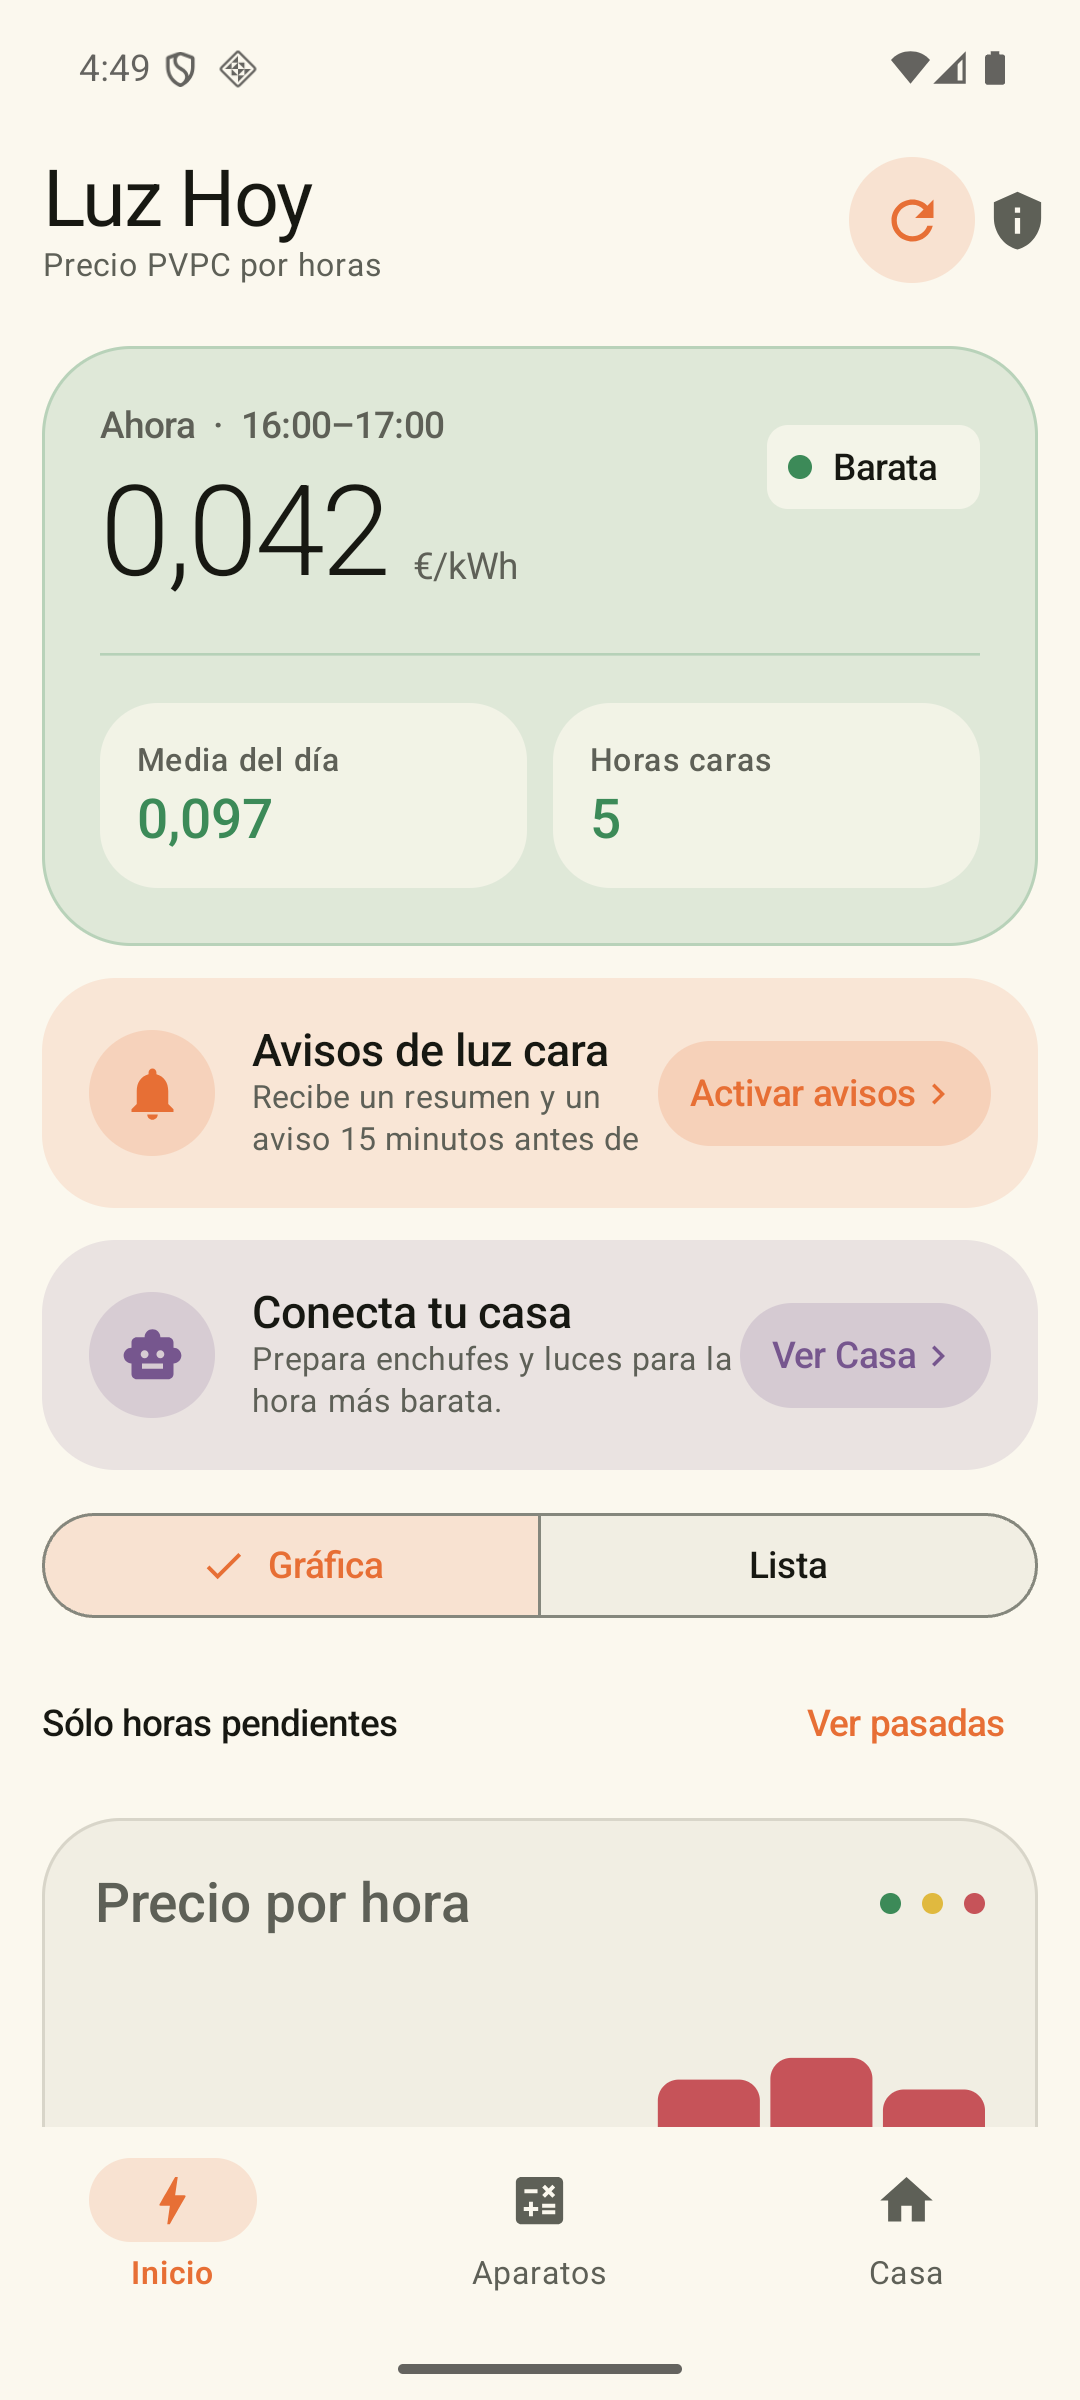
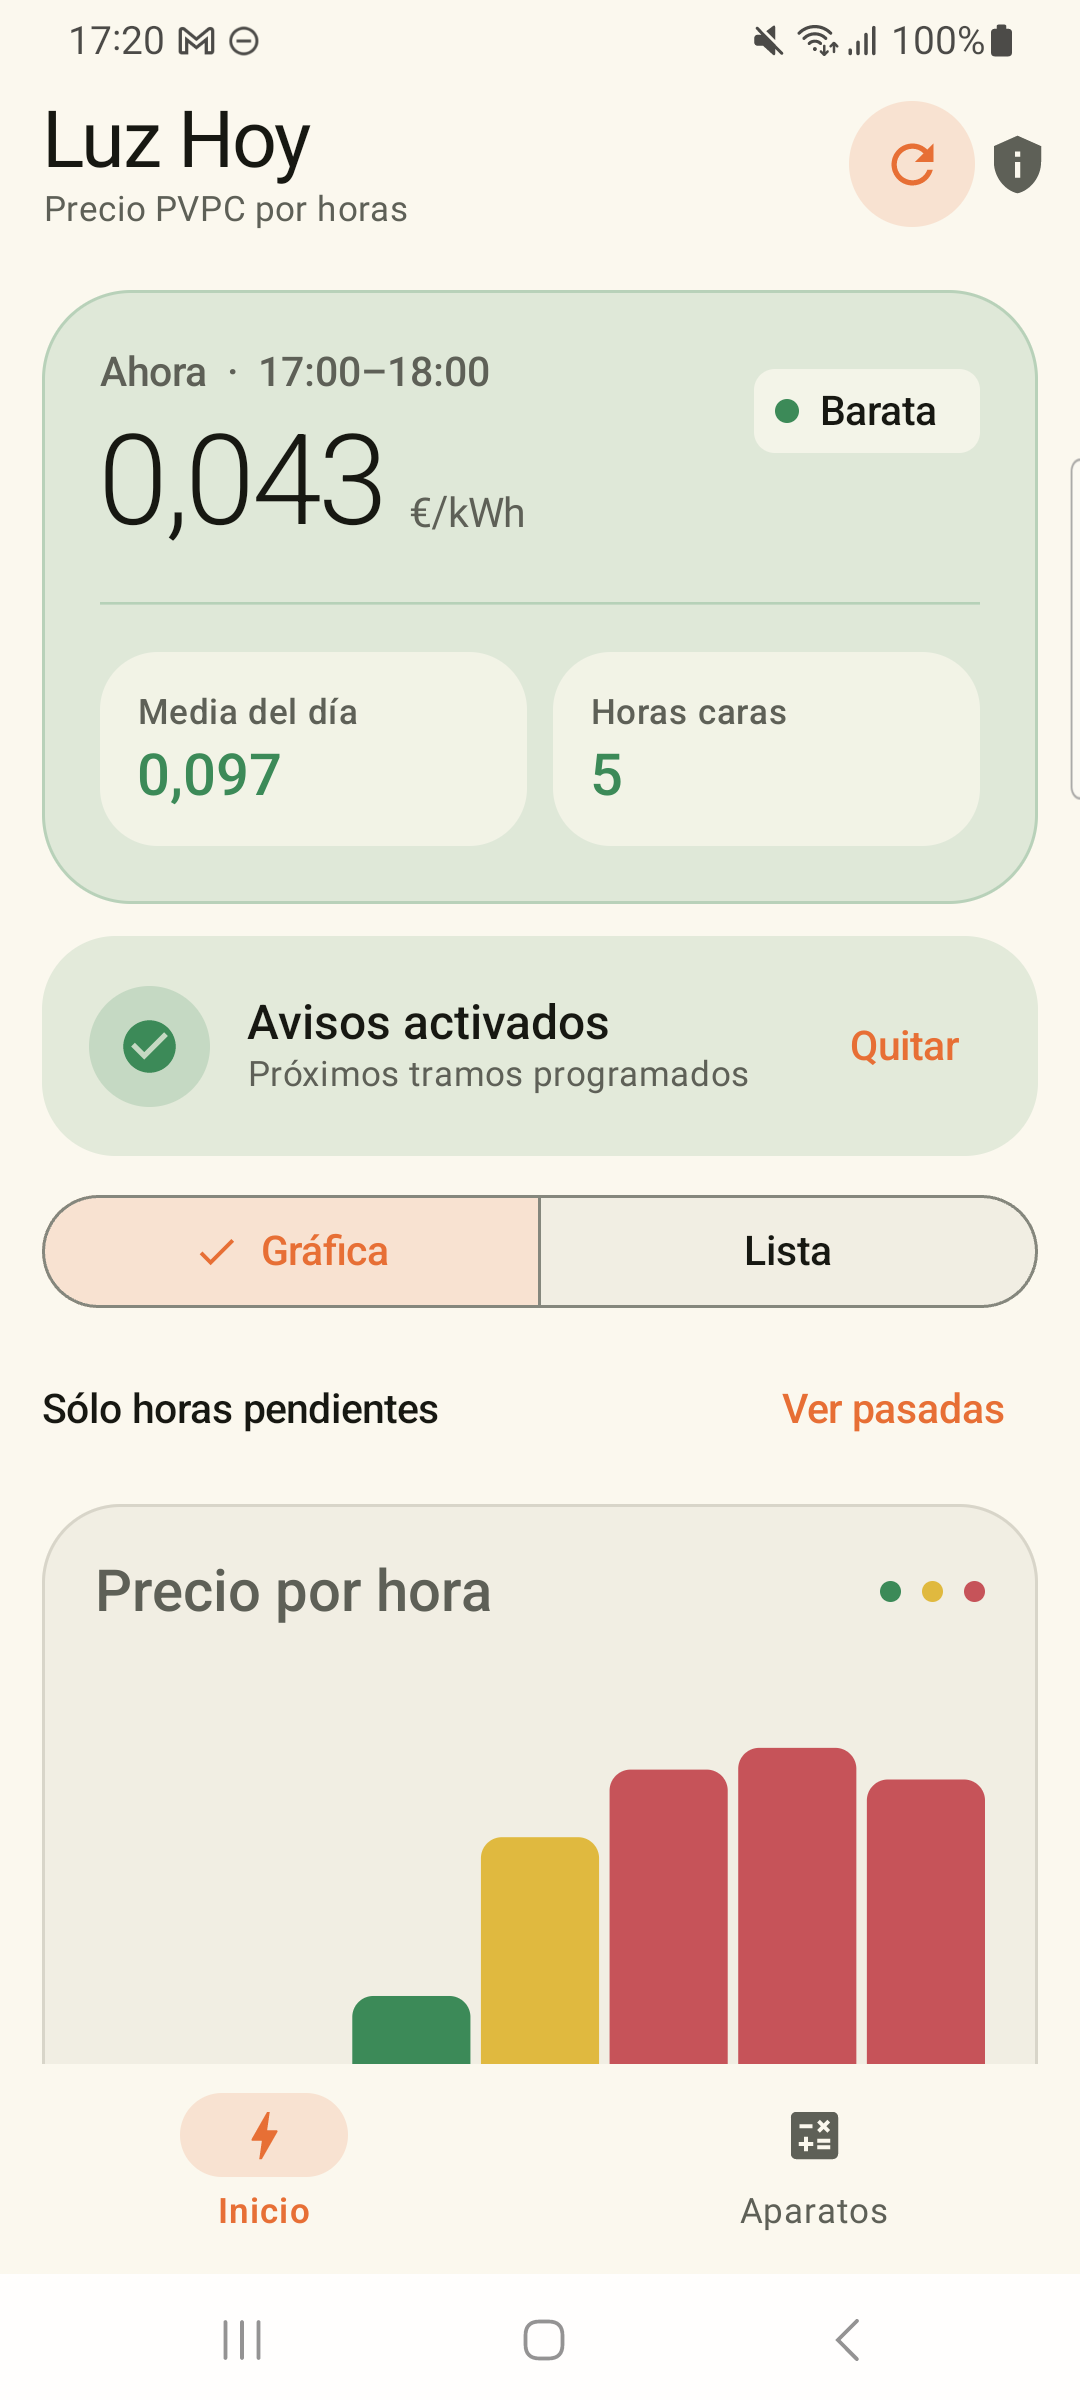
Remove Google Home from public release

diff --git a/privacidad/index.html b/privacidad/index.html
@@ -19,7 +19,7 @@
     <p class="notice">Luz Hoy no crea cuentas propias, no contiene publicidad y no opera un servidor propio que almacene perfiles de usuario.</p>
 
     <h2>1. Responsable y contacto</h2>
-    <p>Luz Hoy es una aplicación para consultar precios eléctricos, calcular costes, recibir avisos y conectar opcionalmente dispositivos mediante Google Home. Para consultas sobre privacidad o soporte: <a href="mailto:[email redacted]">[email redacted]</a>.</p>
+    <p>Luz Hoy es una aplicación para consultar precios eléctricos, calcular costes y recibir avisos. Para consultas sobre privacidad o soporte: <a href="mailto:[email redacted]">[email redacted]</a>.</p>
 
     <h2>2. Precios y conexiones</h2>
     <p>La aplicación consulta precios eléctricos de eSIOS y, cuando es necesario, utiliza Elecz como fuente alternativa. Estas consultas se realizan mediante conexiones cifradas y no incluyen una cuenta propia de Luz Hoy.</p>
@@ -30,28 +30,23 @@
     <h2>4. Búsqueda opcional de modelos</h2>
     <p>Si el usuario pulsa una opción de búsqueda online, la marca, el modelo o la consulta escrita se envía a DuckDuckGo para localizar estimaciones públicas de consumo. Esta función es opcional y solo se ejecuta por acción del usuario.</p>
 
-    <h2>5. Google Home y datos de Google</h2>
-    <p>La conexión con Google Home es opcional y requiere el consentimiento explícito del usuario. Luz Hoy puede acceder a la vivienda seleccionada y a nombres, identificadores, tipos, estados y capacidades de los dispositivos autorizados.</p>
-    <p>Estos datos se utilizan exclusivamente para mostrar dispositivos compatibles y ejecutar acciones o automatizaciones solicitadas por el usuario. Luz Hoy no vende datos de Google, no los utiliza para publicidad y no los comparte con terceros ajenos a los servicios necesarios para esta funcionalidad.</p>
-    <p>Luz Hoy no almacena datos de Google en un servidor propio. Las reglas necesarias para ejecutar acciones se conservan localmente en el dispositivo. El usuario puede retirar el acceso desde su cuenta de Google, borrar los datos de la aplicación o desinstalarla.</p>
-
-    <h2>6. Datos almacenados localmente</h2>
+    <h2>5. Datos almacenados localmente</h2>
     <p>Las preferencias, consumos guardados y programación de avisos permanecen en el dispositivo. Las copias de seguridad de los datos de la aplicación están desactivadas.</p>
 
-    <h2>7. SDK y diagnósticos</h2>
-    <p>Los SDK de Google integrados, como Google Home y ML Kit, pueden tratar información técnica, identificadores por instalación y diagnósticos conforme a las políticas de Google, con el fin de prestar, proteger y mejorar sus servicios.</p>
+    <h2>6. SDK y diagnósticos</h2>
+    <p>ML Kit puede tratar información técnica, identificadores por instalación y diagnósticos conforme a las políticas de Google, con el fin de prestar, proteger y mejorar sus servicios.</p>
 
-    <h2>8. Permisos</h2>
+    <h2>7. Permisos</h2>
     <ul>
       <li><strong>Cámara:</strong> reconocer texto de etiquetas.</li>
       <li><strong>Notificaciones y alarmas:</strong> mostrar avisos locales solicitados por el usuario.</li>
-      <li><strong>Internet:</strong> consultar precios, búsquedas opcionales y Google Home.</li>
+      <li><strong>Internet:</strong> consultar precios y realizar búsquedas opcionales.</li>
     </ul>
 
-    <h2>9. Eliminación y revocación</h2>
-    <p>Los datos locales pueden eliminarse desde los ajustes de Android o desinstalando la aplicación. El acceso a Google Home puede revocarse desde <a href="https://myaccount.google.com/connections">Aplicaciones y servicios conectados de Google</a>.</p>
+    <h2>8. Eliminación</h2>
+    <p>Los datos locales pueden eliminarse desde los ajustes de Android o desinstalando la aplicación.</p>
 
-    <h2>10. Cambios</h2>
+    <h2>9. Cambios</h2>
     <p>Esta política puede actualizarse para reflejar cambios en la aplicación o en los servicios utilizados. La fecha de la versión vigente aparece al comienzo del documento.</p>
   </main>
 

diff --git a/assets/styles.css b/assets/styles.css
@@ -146,9 +146,11 @@ h3 { margin: 0 0 10px; font-size: 1.35rem; }
 
 .screens {
   display: grid;
-  grid-template-columns: repeat(3, 1fr);
+  grid-template-columns: repeat(2, minmax(0, 1fr));
   align-items: start;
   gap: 24px;
+  max-width: 760px;
+  margin-inline: auto;
 }
 
 .screen-card {
@@ -194,15 +196,17 @@ footer div { display: flex; gap: 18px; }
   .wrap { width: min(100% - 28px, 1080px); }
   header { align-items: flex-start; }
   nav { flex-direction: column; gap: 3px; text-align: right; }
-  .hero { grid-template-columns: 1fr; min-height: auto; padding-top: 45px; }
+  .hero { grid-template-columns: minmax(0, 1fr); min-height: auto; padding-top: 45px; }
+  .hero > div { width: 100%; min-width: 0; }
   .phone { width: min(82vw, 350px); transform: none; }
   .features { grid-template-columns: 1fr; }
   .showcase { padding-top: 0; }
   .screens {
-    grid-template-columns: repeat(3, minmax(245px, 1fr));
+    grid-template-columns: repeat(2, minmax(245px, 1fr));
     gap: 16px;
-    margin-right: -14px;
-    padding: 18px 14px 38px 0;
+    width: 100%;
+    margin-right: 0;
+    padding: 18px 0 38px;
     overflow-x: auto;
     scroll-snap-type: x mandatory;
   }

diff --git a/index.html b/index.html
@@ -22,7 +22,7 @@
     <section class="hero wrap">
       <div>
         <h1>La mejor hora para consumir.</h1>
-        <p class="lead">Consulta el precio PVPC, encuentra los tramos más baratos y planifica tus aparatos y tu casa desde una aplicación clara y privada.</p>
+        <p class="lead">Consulta el precio PVPC, encuentra los tramos más baratos y planifica tus aparatos desde una aplicación clara y privada.</p>
         <a class="button" href="mailto:[email redacted]">Contactar con soporte</a>
       </div>
       <figure class="phone">
@@ -40,8 +40,8 @@
         <p>Calcula costes y reconoce modelos o consumos desde la etiqueta del aparato, procesada localmente.</p>
       </article>
       <article class="feature">
-        <h3>Google Home opcional</h3>
-        <p>Conecta dispositivos compatibles mediante consentimiento de Google para programar acciones en horas económicas.</p>
+        <h3>Avisos útiles</h3>
+        <p>Recibe un resumen y un aviso antes de los tramos caros, siempre bajo tu control.</p>
       </article>
     </section>
 
@@ -58,10 +58,6 @@
         <figure class="screen-card raised">
           <img src="assets/aparatos.png" alt="Calculadora de consumo para aparatos en Luz Hoy" loading="lazy">
           <figcaption>Coste de tus aparatos</figcaption>
-        </figure>
-        <figure class="screen-card">
-          <img src="assets/google-home.png" alt="Conexión opcional con Google Home en Luz Hoy" loading="lazy">
-          <figcaption>Tu casa conectada</figcaption>
         </figure>
       </div>
     </section>

diff --git a/terminos/index.html b/terminos/index.html
@@ -24,13 +24,13 @@
     <p>Los precios, cálculos, clasificaciones y recomendaciones son orientativos. Pueden existir diferencias respecto a la facturación final por impuestos, peajes, contratos, redondeos, disponibilidad de fuentes u otras condiciones particulares.</p>
 
     <h2>3. Servicios externos</h2>
-    <p>La aplicación depende parcialmente de servicios de terceros, entre ellos eSIOS, Elecz, DuckDuckGo, Google Home y Google Play Services. Su disponibilidad, exactitud y funcionamiento pueden cambiar o interrumpirse fuera del control de Luz Hoy.</p>
+    <p>La aplicación depende parcialmente de servicios de terceros, entre ellos eSIOS, Elecz, DuckDuckGo y Google Play Services. Su disponibilidad, exactitud y funcionamiento pueden cambiar o interrumpirse fuera del control de Luz Hoy.</p>
 
-    <h2>4. Automatizaciones</h2>
-    <p>Las notificaciones y acciones programadas pueden depender de permisos, conexión, batería, restricciones del fabricante y disponibilidad de los dispositivos. El usuario debe comprobar que cualquier automatización sea adecuada y segura para el aparato conectado.</p>
+    <h2>4. Notificaciones</h2>
+    <p>Las notificaciones pueden depender de permisos, conexión, batería y restricciones del fabricante. No deben utilizarse como alertas críticas.</p>
 
     <h2>5. Uso responsable</h2>
-    <p>No debe utilizarse Luz Hoy para controlar equipos cuyo encendido o apagado remoto pueda generar riesgos personales, materiales o de seguridad. El usuario conserva el control y la responsabilidad sobre sus dispositivos y decisiones de consumo.</p>
+    <p>El usuario conserva el control y la responsabilidad sobre sus decisiones de consumo. La información y los avisos de Luz Hoy son orientativos.</p>
 
     <h2>6. Cambios y disponibilidad</h2>
     <p>Las funciones pueden modificarse para mejorar la aplicación, adaptarse a cambios técnicos o cumplir requisitos legales y de las plataformas.</p>